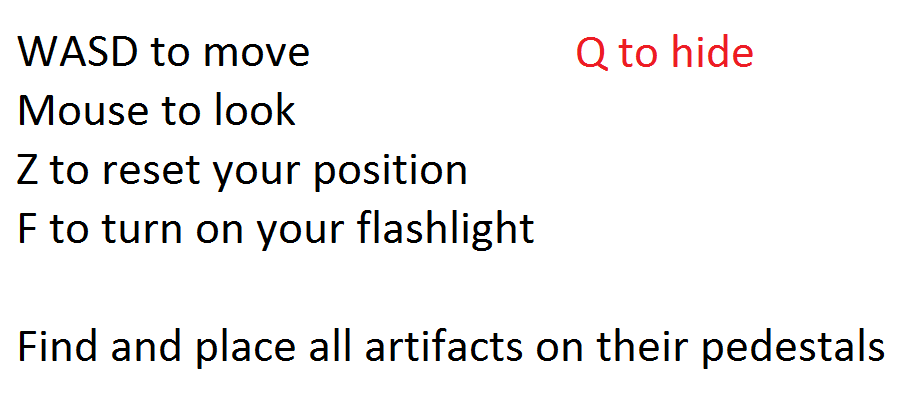
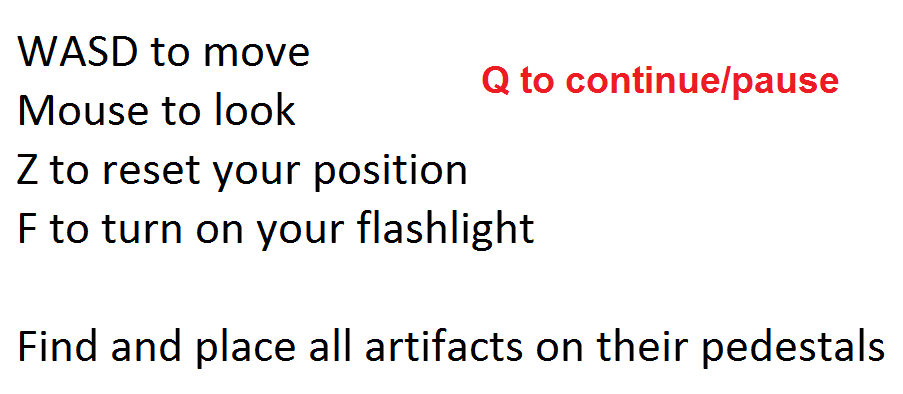
Minor updates.

Changed region(s): [[0.5271, 0.0914, 0.9302, 0.2437]]

diff --git a/js/lib/FirstPersonControls.js b/js/lib/FirstPersonControls.js
@@ -45,7 +45,7 @@ THREE.FirstPersonControls = function ( object, domElement ) {
 	this.moveBackward = false;
 	this.moveLeft = false;
 	this.moveRight = false;
-	this.freeze = false;
+	this.freeze = true;
 	this.hide = false;
 	
 	// addition
@@ -152,7 +152,6 @@ THREE.FirstPersonControls = function ( object, domElement ) {
 		//event.preventDefault();
 
 		switch ( event.keyCode ) {
-
 			case 38: /*up*/
 			case 87: /*W*/ this.moveForward = true; break;
 
@@ -167,13 +166,12 @@ THREE.FirstPersonControls = function ( object, domElement ) {
 
 			//case 82: /*R*/ this.moveUp = true; break;
 			//case 70: /*F*/ this.moveDown = true; break;
-			case 70: /*F*/ this.lightOn = !this.lightOn; break;
-
-			case 80: /*P*/ this.freeze = !this.freeze; break;
+			//case 82: /*R*/ this.hide = !this.hide; break;
+			case 70: /*F*/ this.lightOn = !this.lightOn; break;			
 			
-			// addition
 			case 90: /*Z*/ this.reset = true; break;
-			case 81: /*Q*/ this.hide = !this.hide; break;
+			case 81: /*Q*/ this.freeze = !this.freeze;
+						   this.hide = true;  break;
 
 		}
 
@@ -207,7 +205,12 @@ THREE.FirstPersonControls = function ( object, domElement ) {
 	};
 
 	this.update = function( delta, person ) {		
-		// addition
+		// instructions
+		if (!this.hide){
+			return;
+		}
+		
+		// reset
 		if (this.reset ) {
 			this.target = new THREE.Vector3( 0, 0, 0 );
 			this.object.lookAt( this.target );
@@ -225,15 +228,11 @@ THREE.FirstPersonControls = function ( object, domElement ) {
 				}
 		}
 
+		// pause
 		if ( this.freeze ) {
 
 			return;
 
-		}
-		
-		if (app.city.direction.x == 0 || app.citydirection.z == 0) {
-			//console.log("collision");
-			//return;
 		}
 
 		if ( this.heightSpeed ) {

diff --git a/js/city.js b/js/city.js
@@ -26,7 +26,7 @@ app.city = {
 		paused: false,
 		noCollision: true,
 		dt: 1/60,
-		movementSpeed : 0.5,
+		movementSpeed : 0.3,
 		actualMoveSpeed : (1/60) * 1.0,
 		collidableMeshList : [],
 		typeHit : 0,
@@ -68,7 +68,7 @@ app.city = {
 			if(this.gameOver == false) {
 				this.endTimer++;
 				this.gameOver = true;
-			} else if (this.endTimer < 200){
+			} else if (this.endTimer < 150){
 				console.log(this.endTimer);
 				this.end.intensity +=.5;
 				this.endTimer++;
@@ -302,7 +302,7 @@ app.city = {
 				// controls
 				this.controls = new THREE.FirstPersonControls(this.camera);
 				this.controls.movementSpeed = 15;
-				this.controls.lookSpeed = .75;
+				this.controls.lookSpeed = .5;
 				this.controls.autoForward = false;
 				
 				// allows the gui to control different things
@@ -641,7 +641,7 @@ app.city = {
 		var bat = new THREE.Mesh(planeGeometry,planeMaterial);
 		bat.position.set(-45,5,45);
 		
-		this.scene.add(bat);
+		//this.scene.add(bat);
 		this.bats.push(bat);
 		
 	},
@@ -651,12 +651,13 @@ app.city = {
 		//debugger;
 		var planeTexture = new THREE.ImageUtils.loadTexture('images/instructions.png');
 		var planeMaterial = new THREE.MeshBasicMaterial( {map: planeTexture, side:THREE.DoubleSide } );
-		var planeGeometry = new THREE.PlaneGeometry(5,5, 1,1);
+		var planeGeometry = new THREE.PlaneGeometry(5,3, 1,1);
 		
 		this.instruct = new THREE.Mesh(planeGeometry,planeMaterial);
 
 		//plane.rotation.y += 180;
-		this.instruct.position.set(-40,7.5,40.5);
+		//this.instruct.position.set(-40,7.5,40.5);
+		this.instruct.position.set(-45,5,40.3);
 		
 		this.scene.add(this.instruct);
 	},

diff --git a/js/mansion.js b/js/mansion.js
@@ -135,7 +135,7 @@ app.mansion = {
 		this.addsconce(-40, 7, -50, this.SCONCE_IMAGE, true);
 		
 		// paintings
-		this.addPainting(4, 3, .1, 'images/painting1.jpg', 0, 6.5, 49.7, 0);
+		this.addPainting(4, 3, .1, 'images/painting1.jpg', 30, 6.5, 49.7, 0);
 		this.addPainting(5, 3, .1, 'images/painting2.jpg', 0, 6.5, 39.7, 0);
 		this.addPainting(4, 4, .1, 'images/painting3.jpg', -49.7, 6.5, 15, Math.PI/2);
 		this.addPainting(4, 3, .1, 'images/painting4.jpg', 10.3, 6.5, 30, Math.PI/2);
